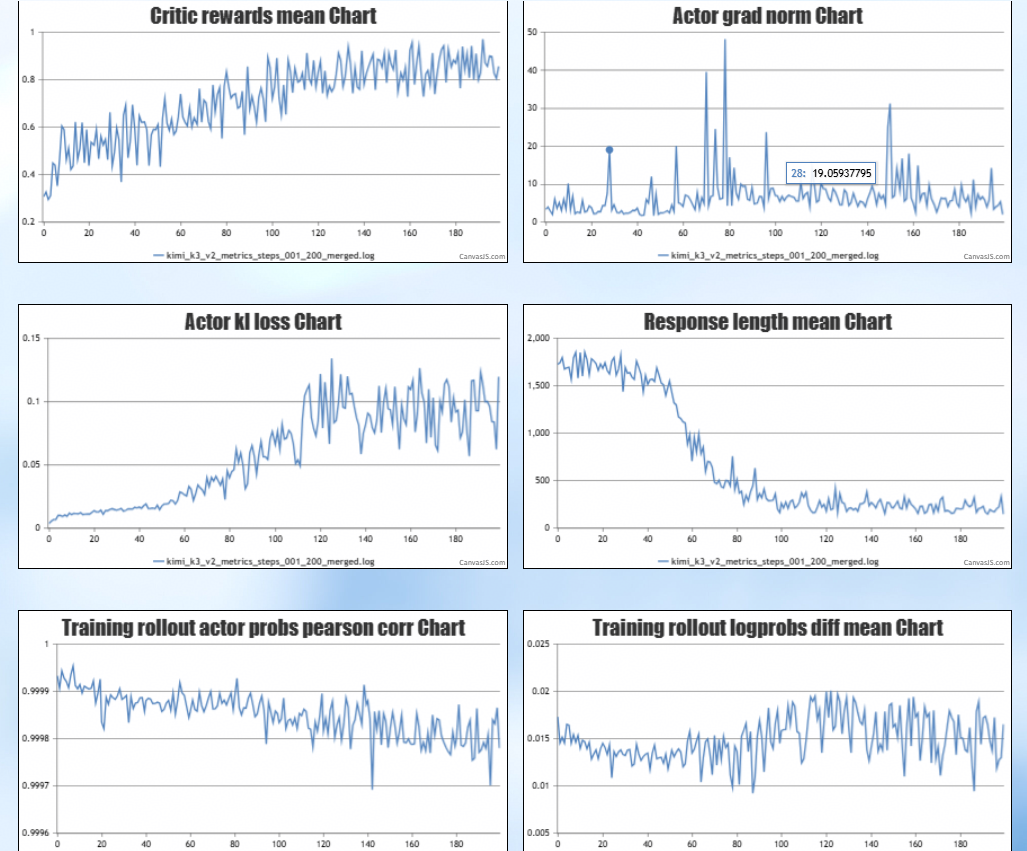
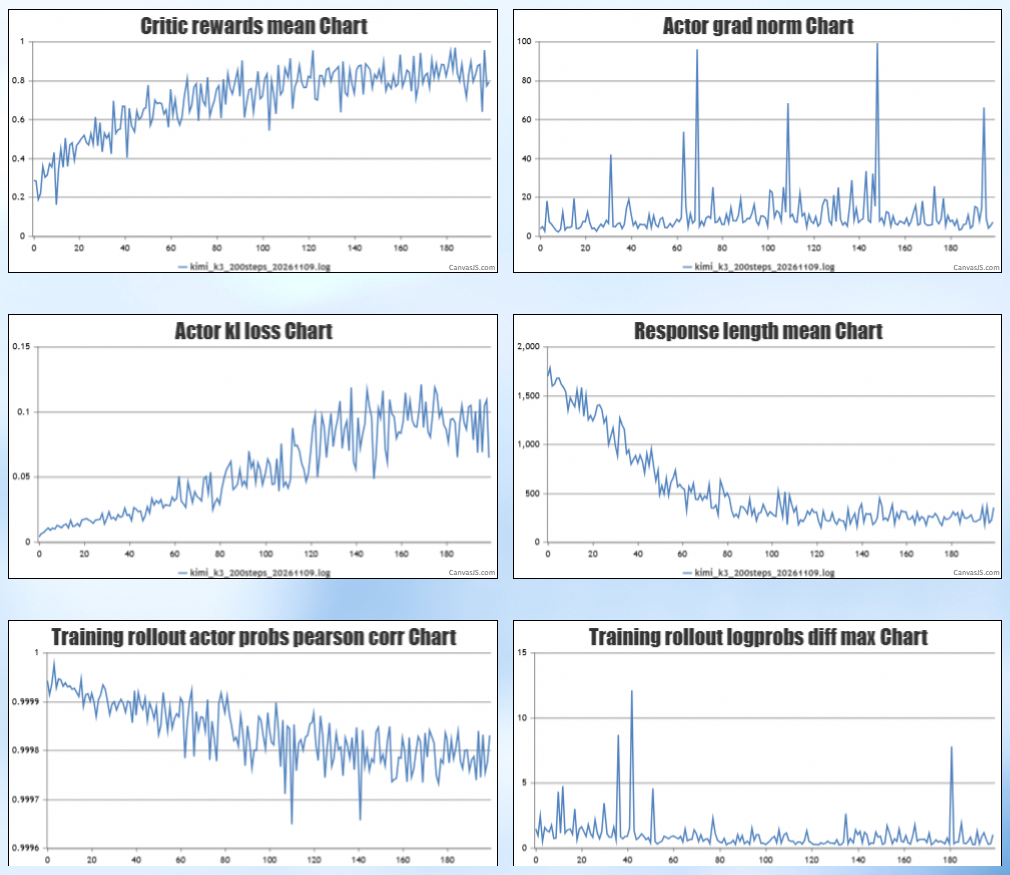
fix/kimi k3 A3 four-node training examples (#181)
fix/kimi k3 A3 four-node training examples

Changed region(s): [[0.0, 0.0, 1.0, 0.6722], [0.0, 0.7027, 1.0, 1.0]]

diff --git a/Kimi-K3/README.md b/Kimi-K3/README.md
@@ -82,11 +82,13 @@ git -C "$WORK/vllm" checkout --detach ced6857afa0ea7b2e3f0846a62e1394e90f15607
 git -C "$WORK/vllm-ascend" checkout --detach cb629ea1925a280d57b41b48416a85097f6cdb6b
 
 # 应用Patch
-PATCH_DIR="$WORK/verl-ascend-recipe/Kimi-K3/patch"
-git -C "$WORK/verl" -c user.name='A3 setup' -c user.email='a3-setup@localhost' am --keep "$PATCH_DIR/verl.patch"
-git -C "$WORK/FSDPTurbo" -c user.name='A3 setup' -c user.email='a3-setup@localhost' am --keep "$PATCH_DIR/fsdpturbo.patch"
-git -C "$WORK/vllm-ascend" -c user.name='A3 setup' -c user.email='a3-setup@localhost' am --keep "$PATCH_DIR/vllm-ascend.patch"
-git -C "$WORK/vllm-ascend" submodule update --init --recursive
+cd verl
+git am --keep ../verl-ascend-recipe/Kimi-K3/patch/verl.patch
+cd ../FSDPTurbo
+git am --keep ../verl-ascend-recipe/Kimi-K3/patch/fsdpturbo.patch
+cd ../vllm-ascend
+git am --keep ../verl-ascend-recipe/Kimi-K3/patch/vllm-ascend.patch
+git submodule update --init --recursive
 
 cp "$WORK/verl-ascend-recipe/Kimi-K3/examples/ray_start_4nodes_a3.sh" "$WORK/"
 # 脚本若经 Windows 下载或复制，统一为 Unix LF 换行。
@@ -114,30 +116,15 @@ COMPILE_CUSTOM_KERNELS=1 SOC_VERSION=ascend910_9392 MAX_JOBS=32 \
 cd "$WORK"
 ```
 
-四个容器全部安装完成后，分别执行以下启动命令；节点 IP、网卡名、模型和数据路径按实际环境设置，四个容器使用同一个 `VERL_RUN_NAME`。
+在 `ray_start_4nodes_a3.sh` 顶部配置 `MASTER_ADDR`（Head 通信网卡的 IPv4 地址）、`RAY_PORT` 和 `NNODES`（含 Head，默认 4）。路径区的 `ROOT` 指向框架工作目录（如/mnt/share/kimi-k3-a3），`MODEL_PATH_DIR` 指向模型目录，`DATASET_DIR` 指向包含 `train_448.parquet` 的目录。
+
+每个容器执行同一脚本。脚本从 `HCCL_SOCKET_IFNAME`（默认 `enp48s3u1u1`）读取本机 IPv4，与 `MASTER_ADDR` 相同的节点启动 Head，其余节点加入 Ray。网卡名不同时可在对应容器覆盖此变量。Head 等到指定数量的节点就绪、每节点 16 张 NPU 可用后启动训练。训练步数由 `VERL_TOTAL_TRAINING_STEPS` 控制，默认训练 200 步并保存 rollout。
 
 ```bash
-# 启动训练（四个容器分别执行）
-export KIMI_RELEASE_ROOT=/mnt/share/kimi-k3-a3
-export MASTER_ADDR=192.168.0.4
-export KIMI_NODE_IPS='192.168.0.1 192.168.0.2 192.168.0.3 192.168.0.4'
-export HCCL_SOCKET_IFNAME=enp48s3u1u1
-export GLOO_SOCKET_IFNAME="$HCCL_SOCKET_IFNAME"
-export RAY_PORT=6788
-# 本次验证运行 10 个训练步骤，可按实验需要调整。
-export VERL_TOTAL_TRAINING_STEPS=10
-export MODEL_PATH=/mnt/share/models/K3-top16-pruned_bf16_countbench_128_n4
-export TRAIN_FILE=/mnt/share/datasets/countbenchqa_lite/train_448.parquet
-export VERL_RUN_NAME=kimi_k3_a3_release_run01
-export VERL_EXPERIMENT_NAME="$VERL_RUN_NAME"
-export VERL_SAVE_ROLLOUT=true
-export HYDRA_FULL_ERROR=1
-cd "$KIMI_RELEASE_ROOT"
-
-mkdir -p "runs/$VERL_RUN_NAME"
-nohup bash ray_start_4nodes_a3.sh \
-  > "runs/$VERL_RUN_NAME/launcher.$(hostname -s).log" 2>&1 < /dev/null &
+# 四个容器分别执行（按实际共享目录调整脚本路径）
+bash /mnt/share/kimi-k3-a3/ray_start_4nodes_a3.sh
 ```
+
 ## 3. A5 四节点环境部署与启动
 ```
 # A5镜像
